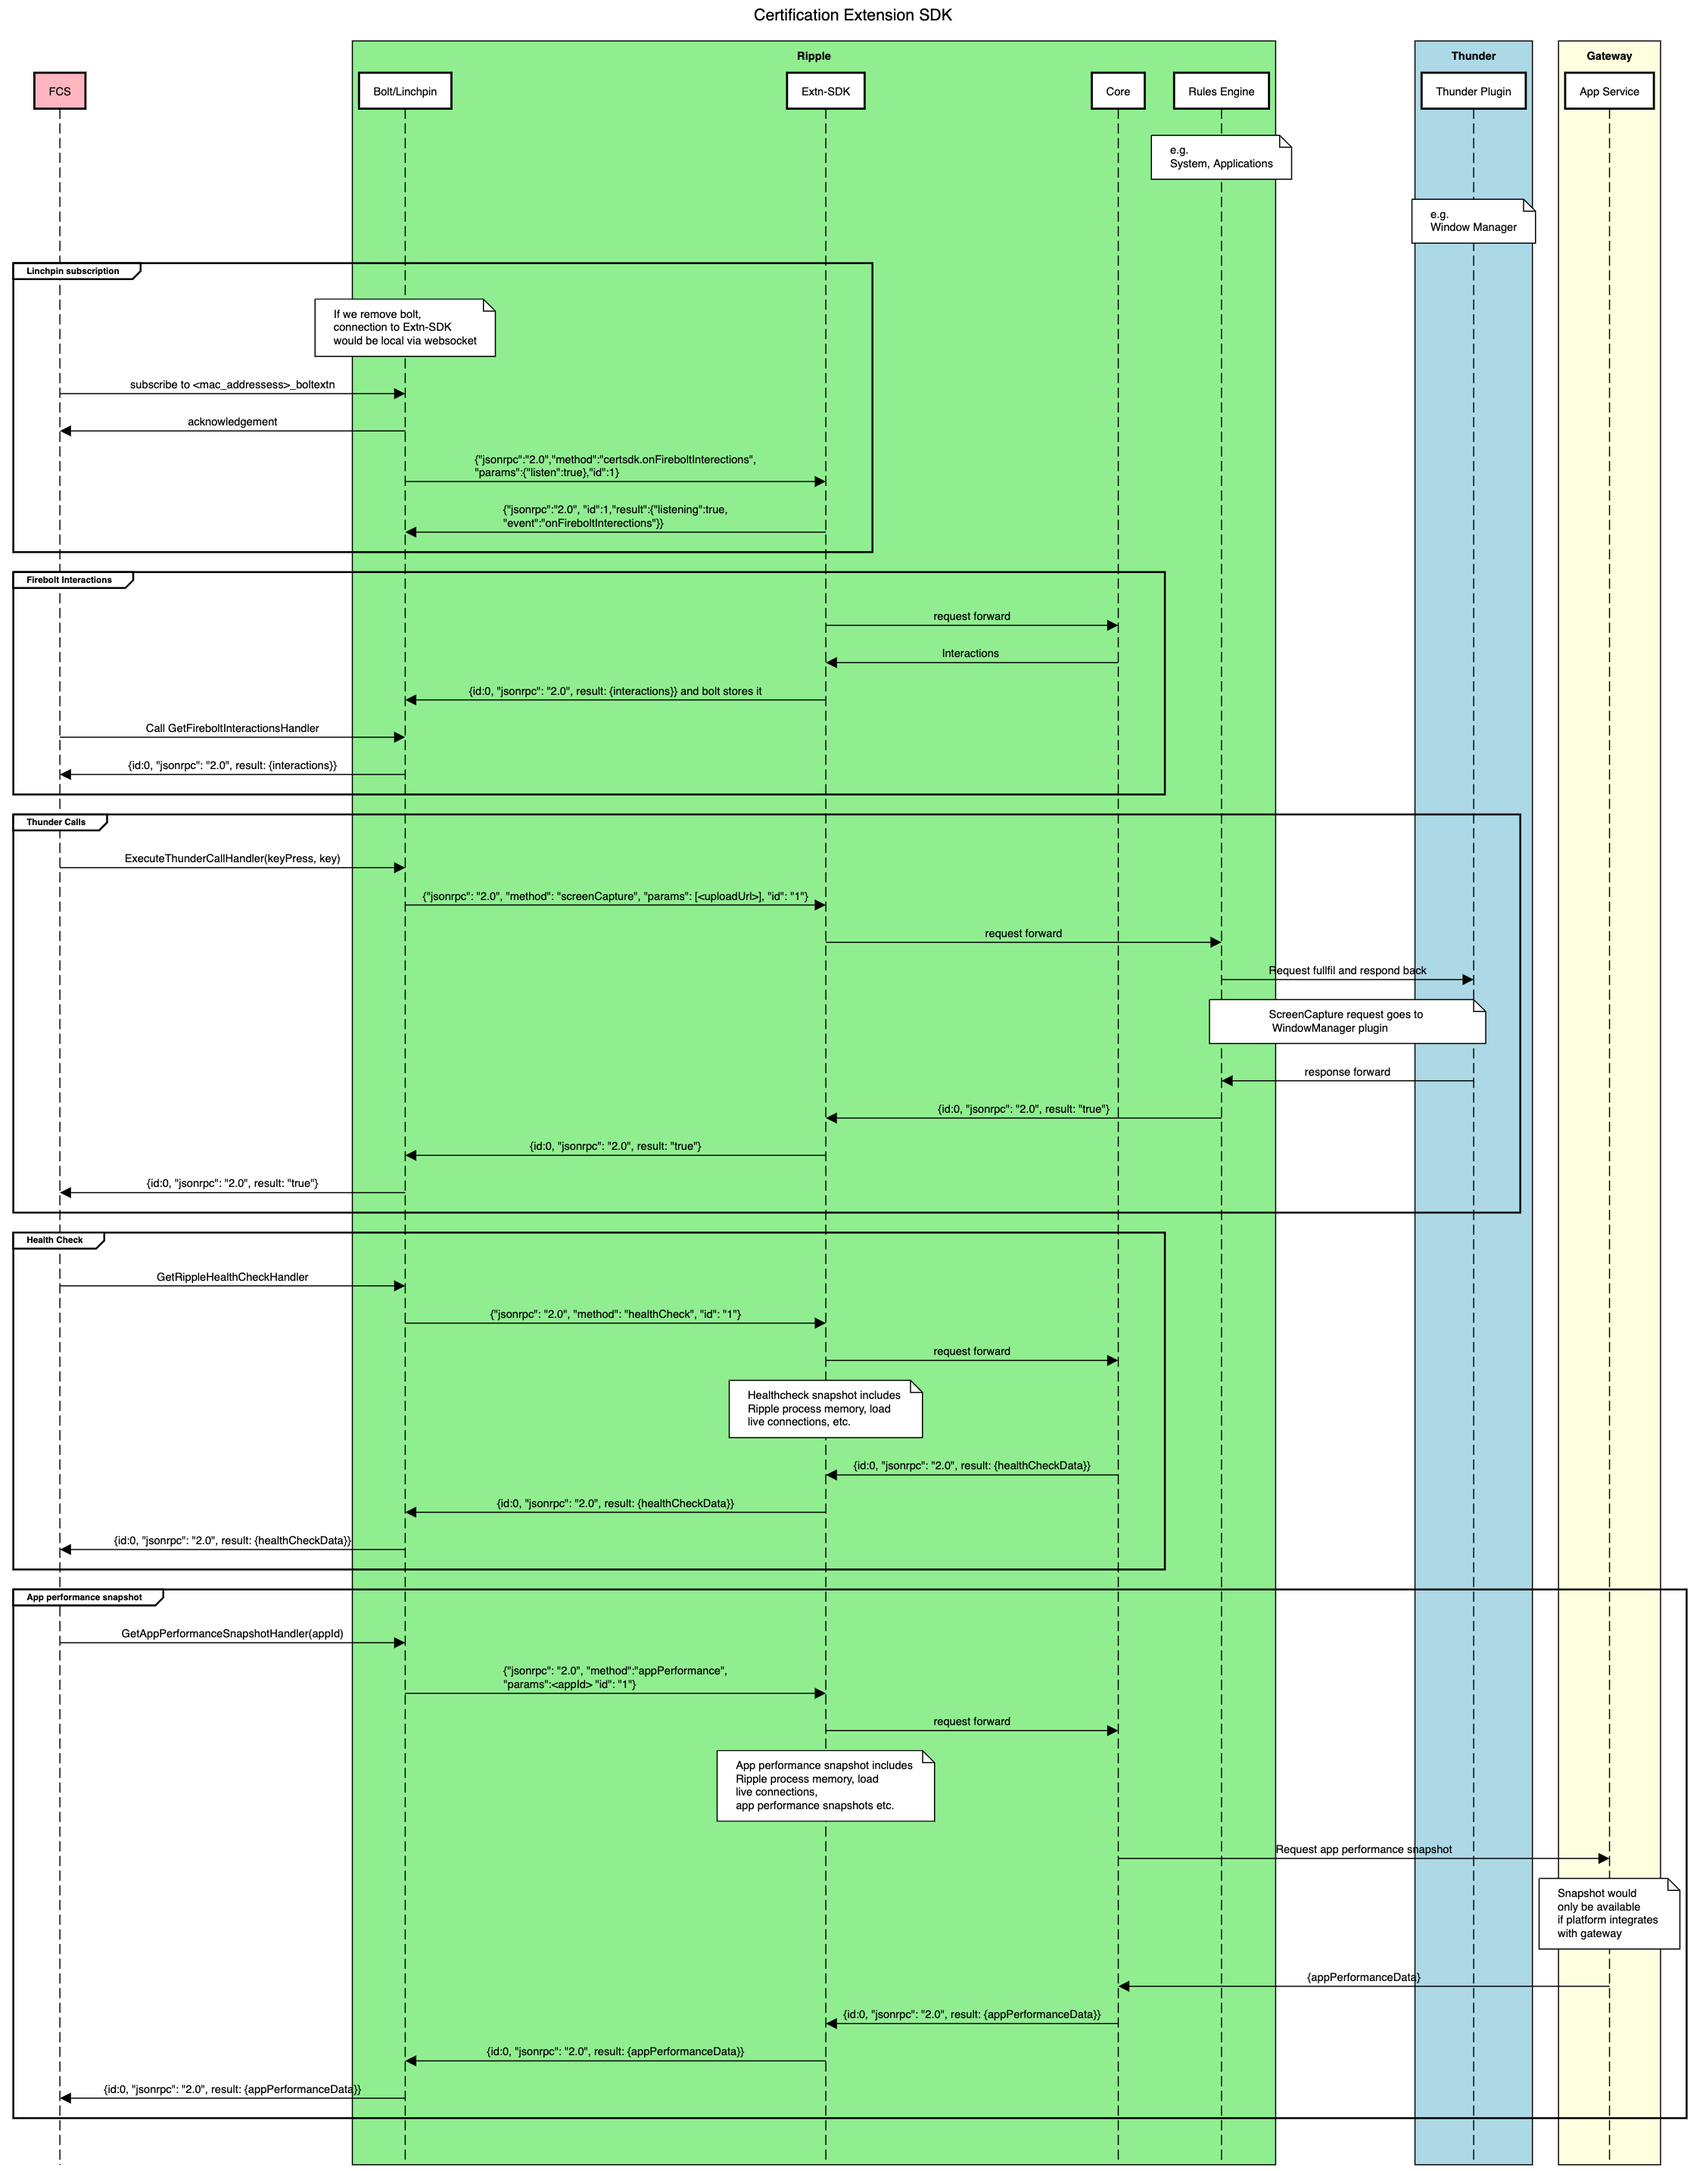
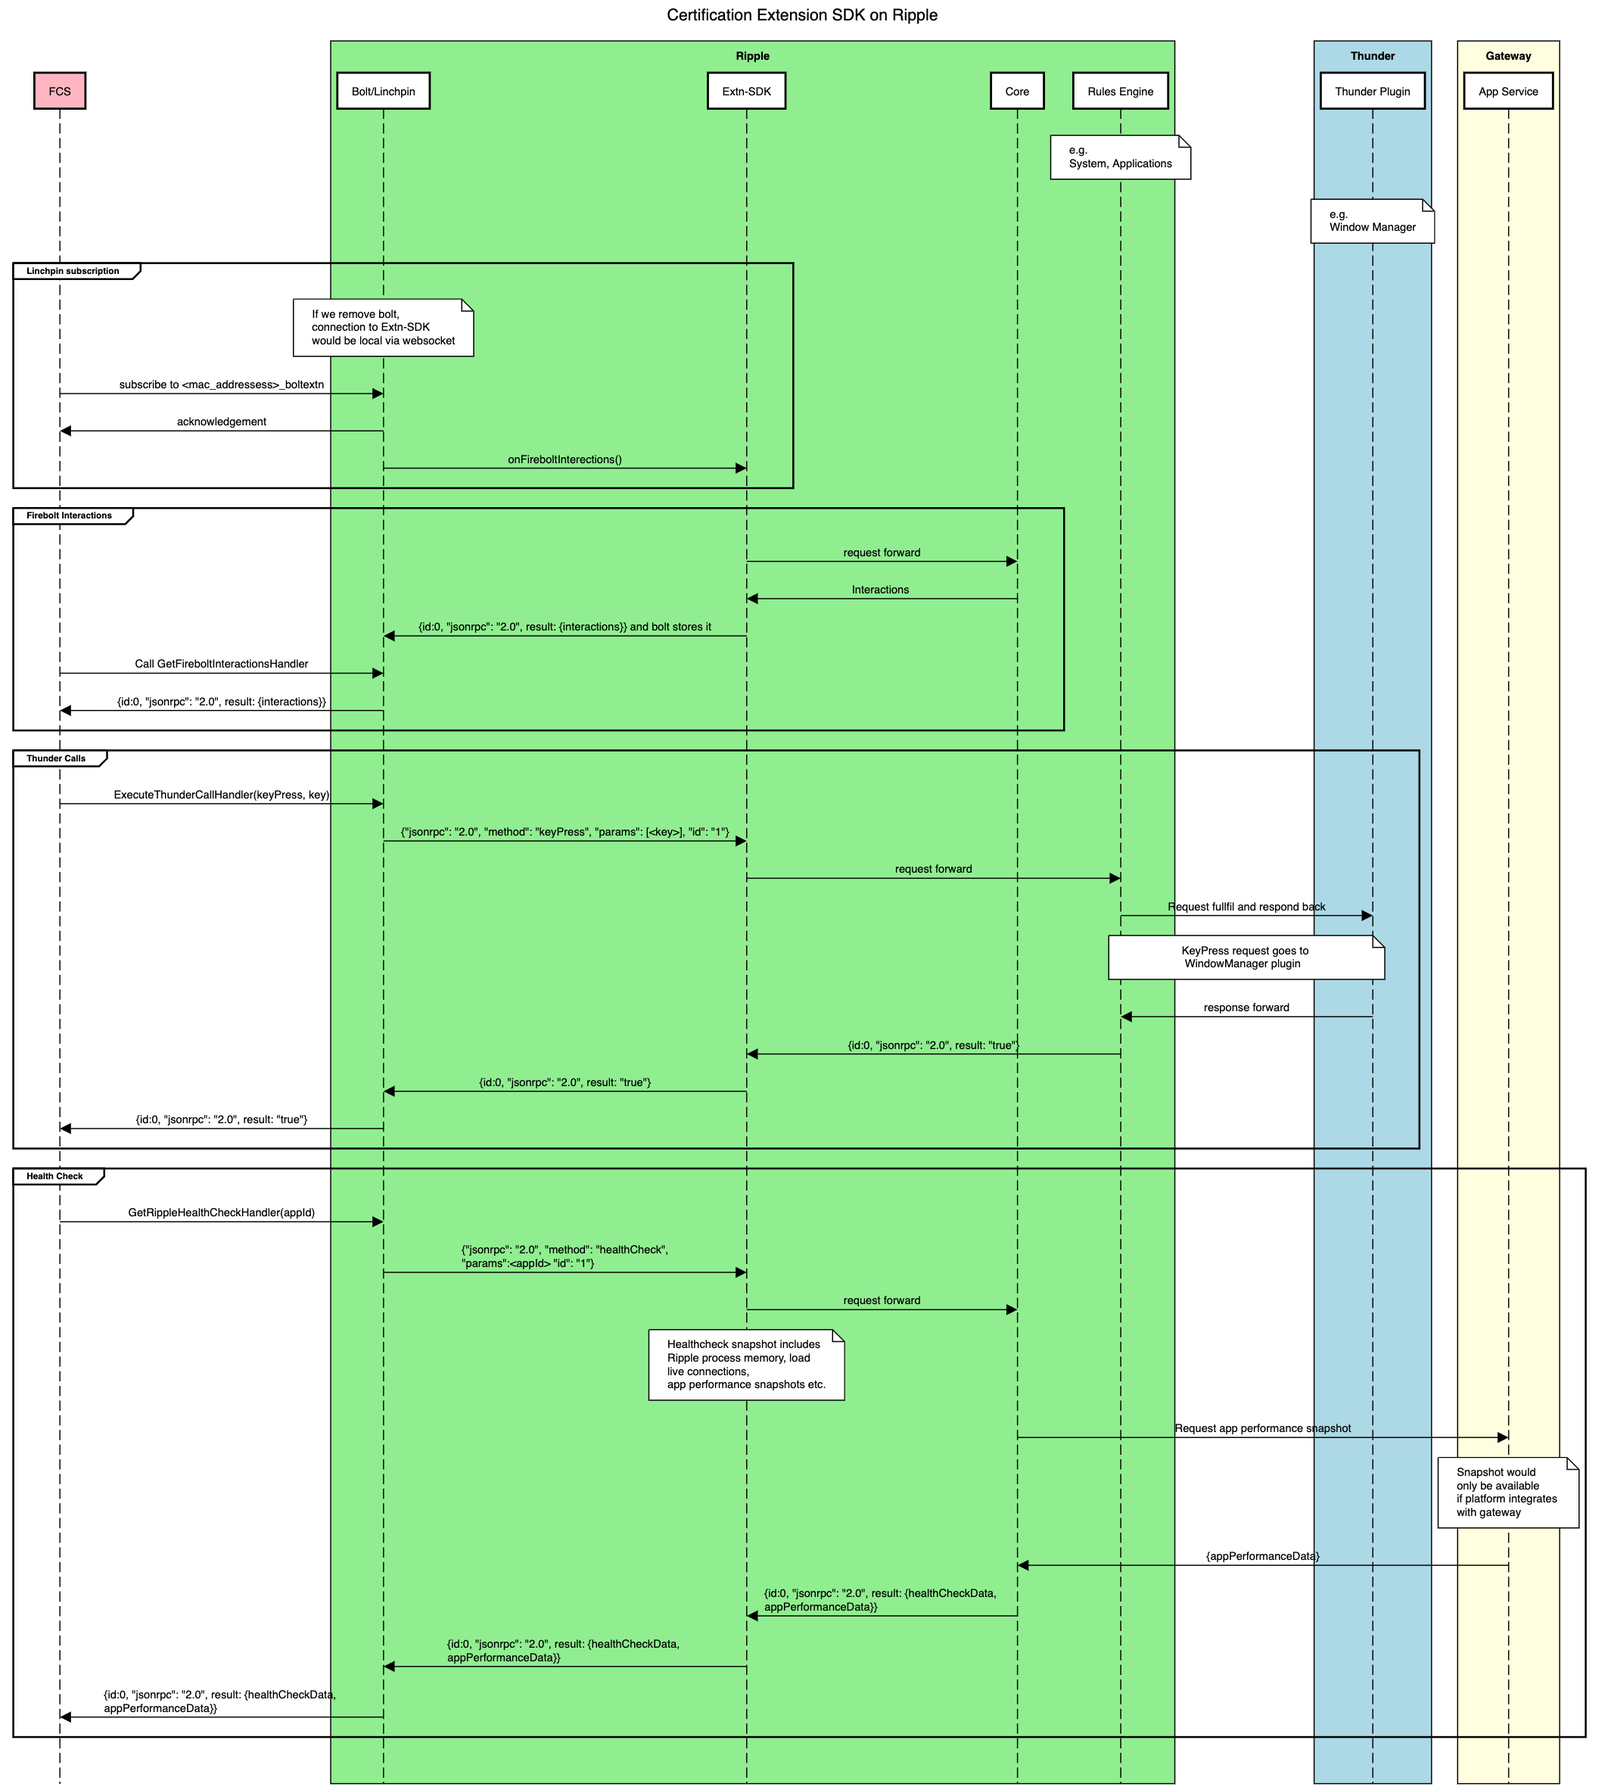
Added Keypress back

diff --git a/requirements/specifications/extnSDK/certification-extension-sdk.md b/requirements/specifications/extnSDK/certification-extension-sdk.md
@@ -25,6 +25,9 @@ CE-SDK would required below use cases to adhere.
     - Snapshot of the performance for app such as load, memory etc.
     - Capability: <b>xrn:firebolt:capability:cert-extension:appperformancedata</b>
   - <b>Firebolt compatible provider calls</b>
+    - <b>Keypress</b>
+      - To navigate on the screen
+      - Capability: <b>xrn:firebolt:capability:cert-extension:keypress</b>
     - <b>Screenshot</b>
       - Fetch and upload the screenshot
       - Capability: <b>xrn:firebolt:capability:cert-extension:screencapture</b>
